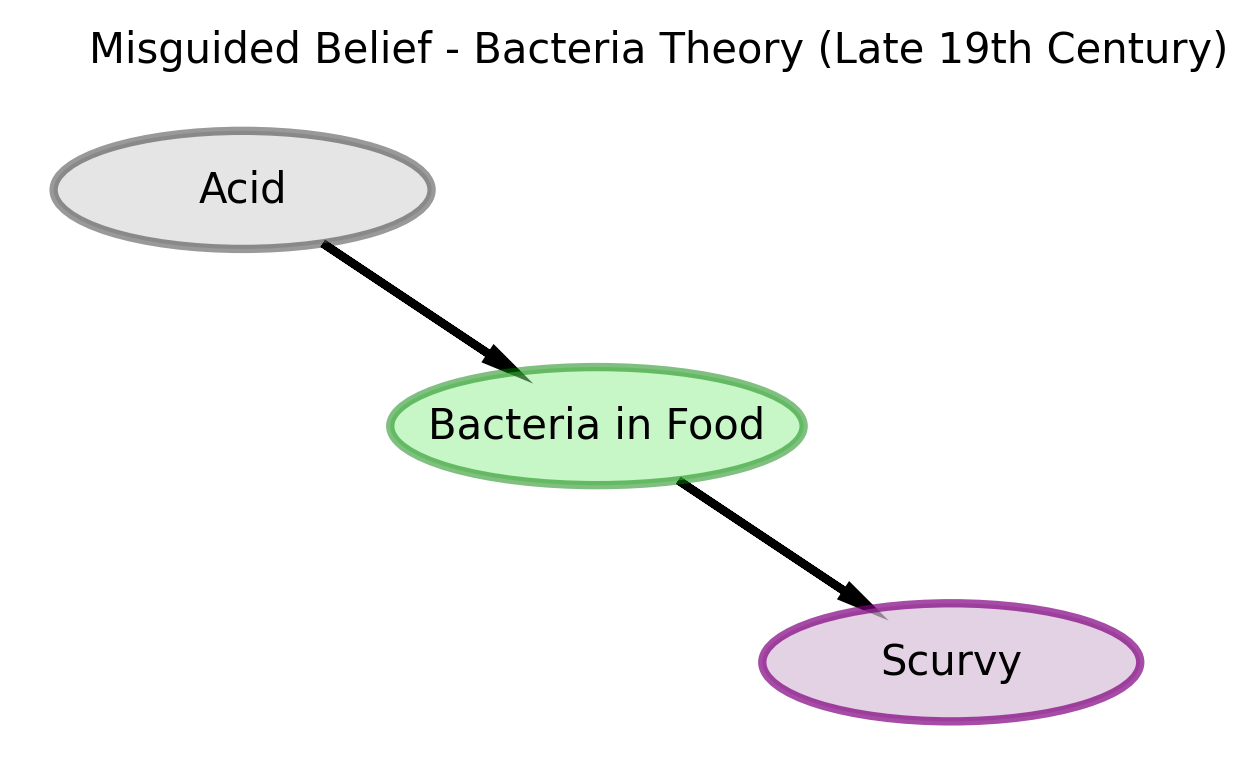
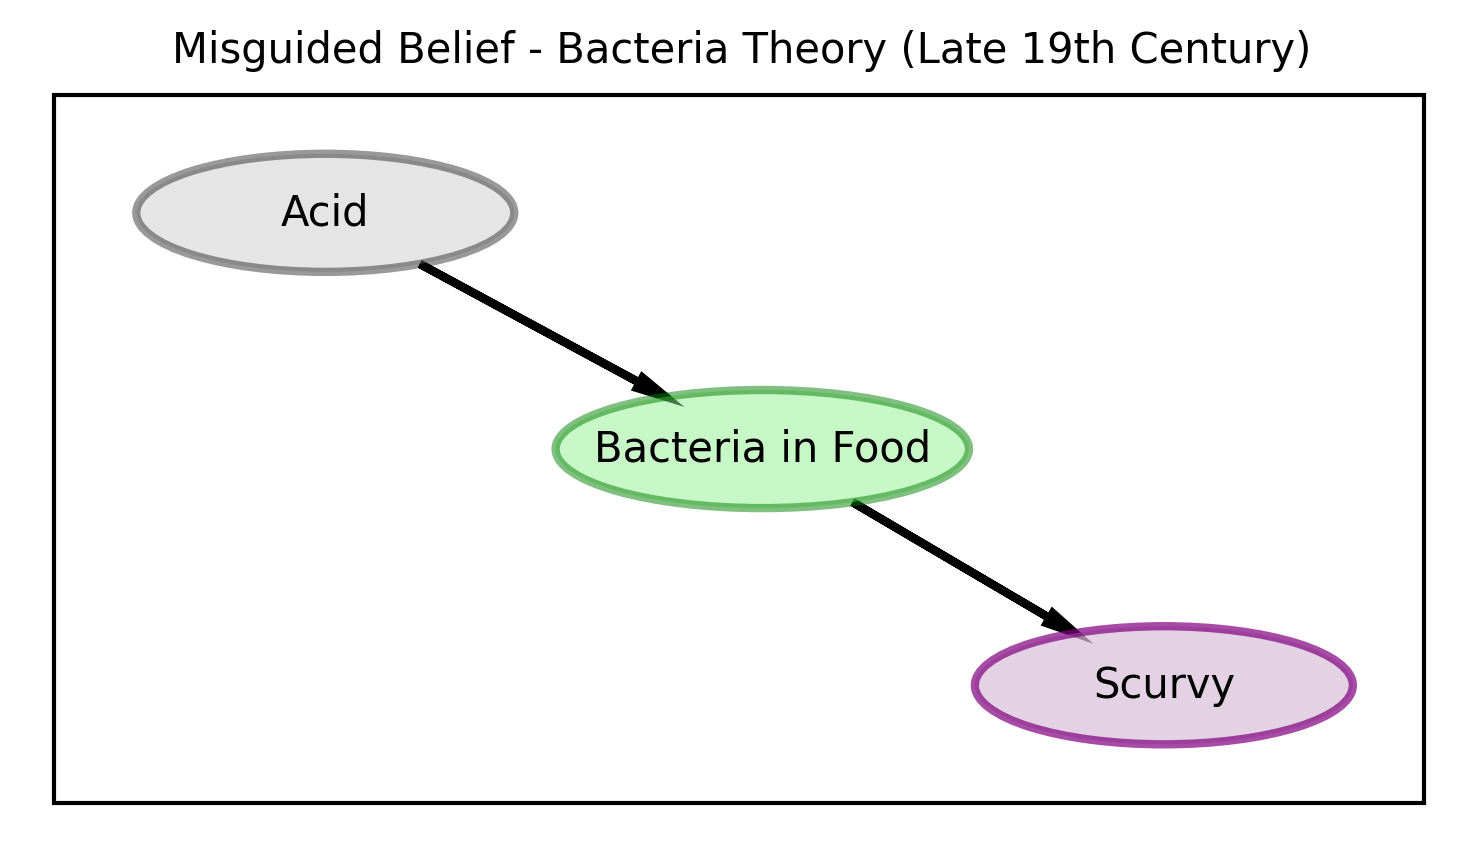
Added DAG plots

Changed region(s): [[0.031, 0.031, 0.961, 0.96], [0.961, 0.1239, 0.9921, 0.929], [0.62, 0.7123, 0.651, 0.7432]]

diff --git a/index.html b/index.html
@@ -252,25 +252,27 @@ Ready to create beautiful DAGs!</code></pre>
 <span id="cb4-8"><a href="#cb4-8" aria-hidden="true" tabindex="-1"></a></span>
 <span id="cb4-9"><a href="#cb4-9" aria-hidden="true" tabindex="-1"></a>pgm <span class="op">=</span> daft.PGM()</span>
 <span id="cb4-10"><a href="#cb4-10" aria-hidden="true" tabindex="-1"></a></span>
-<span id="cb4-11"><a href="#cb4-11" aria-hidden="true" tabindex="-1"></a><span class="co"># Add a title to the DAG</span></span>
-<span id="cb4-12"><a href="#cb4-12" aria-hidden="true" tabindex="-1"></a>pgm.add_text(label<span class="op">=</span><span class="st">"Misguided Belief - Bacteria Theory (Late 19th Century)"</span>, x<span class="op">=-</span><span class="fl">0.65</span>, y<span class="op">=</span><span class="fl">2.5</span>, fontsize<span class="op">=</span><span class="dv">10</span>)</span>
-<span id="cb4-13"><a href="#cb4-13" aria-hidden="true" tabindex="-1"></a></span>
-<span id="cb4-14"><a href="#cb4-14" aria-hidden="true" tabindex="-1"></a>pgm.add_node(<span class="st">"acid"</span>, <span class="st">"Acid"</span>, <span class="dv">0</span>, <span class="dv">2</span>, aspect <span class="op">=</span> <span class="fl">3.2</span>, scale <span class="op">=</span> <span class="dv">1</span>, plot_params<span class="op">=</span>{<span class="st">"facecolor"</span>: <span class="st">"silver"</span>, <span class="st">"edgecolor"</span>: <span class="st">"black"</span>, <span class="st">"linewidth"</span>: <span class="dv">2</span>, <span class="st">'alpha'</span>: <span class="fl">0.4</span>})</span>
+<span id="cb4-11"><a href="#cb4-11" aria-hidden="true" tabindex="-1"></a>pgm.add_plate([<span class="op">-</span><span class="fl">1.5</span>, <span class="op">-</span><span class="fl">0.5</span>, <span class="fl">5.8</span>, <span class="dv">3</span>])</span>
+<span id="cb4-12"><a href="#cb4-12" aria-hidden="true" tabindex="-1"></a></span>
+<span id="cb4-13"><a href="#cb4-13" aria-hidden="true" tabindex="-1"></a><span class="co"># Add a title to the DAG</span></span>
+<span id="cb4-14"><a href="#cb4-14" aria-hidden="true" tabindex="-1"></a>pgm.add_text(label<span class="op">=</span><span class="st">"Misguided Belief - Bacteria Theory (Late 19th Century)"</span>, x<span class="op">=-</span><span class="dv">1</span>, y<span class="op">=</span><span class="fl">2.6</span>, fontsize<span class="op">=</span><span class="dv">10</span>)</span>
 <span id="cb4-15"><a href="#cb4-15" aria-hidden="true" tabindex="-1"></a></span>
-<span id="cb4-16"><a href="#cb4-16" aria-hidden="true" tabindex="-1"></a>pgm.add_node(<span class="st">"bif"</span>, <span class="st">"Bacteria in Food"</span>, <span class="fl">1.5</span>, <span class="dv">1</span>, aspect <span class="op">=</span> <span class="fl">3.5</span>, scale <span class="op">=</span> <span class="dv">1</span>, plot_params<span class="op">=</span>{<span class="st">"facecolor"</span>: <span class="st">"lightgreen"</span>, <span class="st">"edgecolor"</span>: <span class="st">"green"</span>, <span class="st">"linewidth"</span>: <span class="dv">2</span>, <span class="st">'alpha'</span>: <span class="fl">0.5</span>})</span>
+<span id="cb4-16"><a href="#cb4-16" aria-hidden="true" tabindex="-1"></a>pgm.add_node(<span class="st">"acid"</span>, <span class="st">"Acid"</span>, <span class="op">-</span><span class="fl">0.35</span>, <span class="dv">2</span>, aspect <span class="op">=</span> <span class="fl">3.2</span>, scale <span class="op">=</span> <span class="dv">1</span>, plot_params<span class="op">=</span>{<span class="st">"facecolor"</span>: <span class="st">"silver"</span>, <span class="st">"edgecolor"</span>: <span class="st">"black"</span>, <span class="st">"linewidth"</span>: <span class="dv">2</span>, <span class="st">'alpha'</span>: <span class="fl">0.4</span>})</span>
 <span id="cb4-17"><a href="#cb4-17" aria-hidden="true" tabindex="-1"></a></span>
-<span id="cb4-18"><a href="#cb4-18" aria-hidden="true" tabindex="-1"></a>pgm.add_node(<span class="st">"scurvy"</span>, <span class="st">"Scurvy"</span>, <span class="dv">3</span>, <span class="dv">0</span>, aspect <span class="op">=</span> <span class="fl">3.2</span>, scale <span class="op">=</span> <span class="dv">1</span>, plot_params<span class="op">=</span>{<span class="st">"facecolor"</span>: <span class="st">"thistle"</span>, <span class="st">"edgecolor"</span>: <span class="st">"purple"</span>, <span class="st">"linewidth"</span>: <span class="dv">2</span>, <span class="st">'alpha'</span>: <span class="fl">0.7</span>})</span>
+<span id="cb4-18"><a href="#cb4-18" aria-hidden="true" tabindex="-1"></a>pgm.add_node(<span class="st">"bif"</span>, <span class="st">"Bacteria in Food"</span>, <span class="fl">1.5</span>, <span class="dv">1</span>, aspect <span class="op">=</span> <span class="fl">3.5</span>, scale <span class="op">=</span> <span class="dv">1</span>, plot_params<span class="op">=</span>{<span class="st">"facecolor"</span>: <span class="st">"lightgreen"</span>, <span class="st">"edgecolor"</span>: <span class="st">"green"</span>, <span class="st">"linewidth"</span>: <span class="dv">2</span>, <span class="st">'alpha'</span>: <span class="fl">0.5</span>})</span>
 <span id="cb4-19"><a href="#cb4-19" aria-hidden="true" tabindex="-1"></a></span>
-<span id="cb4-20"><a href="#cb4-20" aria-hidden="true" tabindex="-1"></a>pgm.add_edge(<span class="st">"acid"</span>, <span class="st">"bif"</span>, plot_params<span class="op">=</span>{<span class="st">"linewidth"</span>: <span class="dv">2</span>, <span class="st">"color"</span>: <span class="st">"gray"</span>})</span>
-<span id="cb4-21"><a href="#cb4-21" aria-hidden="true" tabindex="-1"></a>pgm.add_edge(<span class="st">"bif"</span>, <span class="st">"scurvy"</span>, plot_params<span class="op">=</span>{<span class="st">"linewidth"</span>: <span class="dv">2</span>, <span class="st">"color"</span>: <span class="st">"gray"</span>})</span>
-<span id="cb4-22"><a href="#cb4-22" aria-hidden="true" tabindex="-1"></a></span>
-<span id="cb4-23"><a href="#cb4-23" aria-hidden="true" tabindex="-1"></a>pgm.render()</span>
+<span id="cb4-20"><a href="#cb4-20" aria-hidden="true" tabindex="-1"></a>pgm.add_node(<span class="st">"scurvy"</span>, <span class="st">"Scurvy"</span>, <span class="fl">3.2</span>, <span class="dv">0</span>, aspect <span class="op">=</span> <span class="fl">3.2</span>, scale <span class="op">=</span> <span class="dv">1</span>, plot_params<span class="op">=</span>{<span class="st">"facecolor"</span>: <span class="st">"thistle"</span>, <span class="st">"edgecolor"</span>: <span class="st">"purple"</span>, <span class="st">"linewidth"</span>: <span class="dv">2</span>, <span class="st">'alpha'</span>: <span class="fl">0.7</span>})</span>
+<span id="cb4-21"><a href="#cb4-21" aria-hidden="true" tabindex="-1"></a></span>
+<span id="cb4-22"><a href="#cb4-22" aria-hidden="true" tabindex="-1"></a>pgm.add_edge(<span class="st">"acid"</span>, <span class="st">"bif"</span>, plot_params<span class="op">=</span>{<span class="st">"linewidth"</span>: <span class="dv">2</span>, <span class="st">"color"</span>: <span class="st">"gray"</span>})</span>
+<span id="cb4-23"><a href="#cb4-23" aria-hidden="true" tabindex="-1"></a>pgm.add_edge(<span class="st">"bif"</span>, <span class="st">"scurvy"</span>, plot_params<span class="op">=</span>{<span class="st">"linewidth"</span>: <span class="dv">2</span>, <span class="st">"color"</span>: <span class="st">"gray"</span>})</span>
 <span id="cb4-24"><a href="#cb4-24" aria-hidden="true" tabindex="-1"></a></span>
-<span id="cb4-25"><a href="#cb4-25" aria-hidden="true" tabindex="-1"></a>plt.show()</span></code></pre></div><button title="Copy to Clipboard" class="code-copy-button"><i class="bi"></i></button></div>
+<span id="cb4-25"><a href="#cb4-25" aria-hidden="true" tabindex="-1"></a>pgm.render()</span>
+<span id="cb4-26"><a href="#cb4-26" aria-hidden="true" tabindex="-1"></a></span>
+<span id="cb4-27"><a href="#cb4-27" aria-hidden="true" tabindex="-1"></a>plt.show()</span></code></pre></div><button title="Copy to Clipboard" class="code-copy-button"><i class="bi"></i></button></div>
 <div class="cell-output cell-output-display">
 <div>
 <figure class="figure">
-<p><img src="index_files/figure-html/dag-2-misguided-output-1.png" id="dag-2-misguided" width="629" height="387" class="figure-img"></p>
+<p><img src="index_files/figure-html/dag-2-misguided-output-1.png" id="dag-2-misguided" width="738" height="428" class="figure-img"></p>
 </figure>
 </div>
 </div>
@@ -290,27 +292,29 @@ Ready to create beautiful DAGs!</code></pre>
 <span id="cb5-6"><a href="#cb5-6" aria-hidden="true" tabindex="-1"></a></span>
 <span id="cb5-7"><a href="#cb5-7" aria-hidden="true" tabindex="-1"></a><span class="im">import</span> daft</span>
 <span id="cb5-8"><a href="#cb5-8" aria-hidden="true" tabindex="-1"></a></span>
-<span id="cb5-9"><a href="#cb5-9" aria-hidden="true" tabindex="-1"></a>pgm <span class="op">=</span> daft.PGM()</span>
+<span id="cb5-9"><a href="#cb5-9" aria-hidden="true" tabindex="-1"></a>pgm <span class="op">=</span> daft.PGM(dpi<span class="op">=</span><span class="dv">150</span>, alternate_style<span class="op">=</span><span class="st">"outer"</span>, observed_style<span class="op">=</span><span class="st">"inner"</span>)</span>
 <span id="cb5-10"><a href="#cb5-10" aria-hidden="true" tabindex="-1"></a></span>
-<span id="cb5-11"><a href="#cb5-11" aria-hidden="true" tabindex="-1"></a><span class="co"># Add a title to the DAG</span></span>
-<span id="cb5-12"><a href="#cb5-12" aria-hidden="true" tabindex="-1"></a>pgm.add_text(label<span class="op">=</span><span class="st">"Simplified Modern Understanding (1930s onwards)"</span>, x<span class="op">=-</span><span class="fl">0.3</span>, y<span class="op">=</span><span class="fl">2.5</span>, fontsize<span class="op">=</span><span class="dv">10</span>)</span>
-<span id="cb5-13"><a href="#cb5-13" aria-hidden="true" tabindex="-1"></a></span>
-<span id="cb5-14"><a href="#cb5-14" aria-hidden="true" tabindex="-1"></a>pgm.add_node(<span class="st">"vitc"</span>, <span class="st">"Vitamin C"</span>, <span class="fl">0.5</span>, <span class="dv">2</span>, aspect <span class="op">=</span> <span class="fl">3.4</span>, scale <span class="op">=</span> <span class="dv">1</span>, plot_params<span class="op">=</span>{<span class="st">"facecolor"</span>: <span class="st">"lightblue"</span>, <span class="st">"edgecolor"</span>: <span class="st">"navy"</span>, <span class="st">"linewidth"</span>: <span class="dv">2</span>, <span class="st">'alpha'</span>: <span class="fl">0.6</span>})</span>
+<span id="cb5-11"><a href="#cb5-11" aria-hidden="true" tabindex="-1"></a>pgm.add_plate([<span class="op">-</span><span class="fl">1.5</span>, <span class="op">-</span><span class="fl">0.6</span>, <span class="fl">5.8</span>, <span class="dv">3</span>])</span>
+<span id="cb5-12"><a href="#cb5-12" aria-hidden="true" tabindex="-1"></a></span>
+<span id="cb5-13"><a href="#cb5-13" aria-hidden="true" tabindex="-1"></a><span class="co"># Add a title to the DAG</span></span>
+<span id="cb5-14"><a href="#cb5-14" aria-hidden="true" tabindex="-1"></a>pgm.add_text(label<span class="op">=</span><span class="st">"Simplified Modern Understanding (1930s onwards)"</span>, x<span class="op">=-</span><span class="fl">0.9</span>, y<span class="op">=</span><span class="fl">2.5</span>, fontsize<span class="op">=</span><span class="dv">10</span>)</span>
 <span id="cb5-15"><a href="#cb5-15" aria-hidden="true" tabindex="-1"></a></span>
-<span id="cb5-16"><a href="#cb5-16" aria-hidden="true" tabindex="-1"></a>pgm.add_node(<span class="st">"colSyn"</span>, <span class="st">"Collagen Synthesis"</span>, <span class="dv">2</span>, <span class="dv">1</span>, aspect <span class="op">=</span> <span class="fl">3.8</span>, scale <span class="op">=</span> <span class="dv">1</span>, plot_params<span class="op">=</span>{<span class="st">"facecolor"</span>: <span class="st">"orange"</span>, <span class="st">"edgecolor"</span>: <span class="st">"brown"</span>, <span class="st">"linewidth"</span>: <span class="dv">2</span>, <span class="st">'alpha'</span>: <span class="fl">0.6</span>})</span>
+<span id="cb5-16"><a href="#cb5-16" aria-hidden="true" tabindex="-1"></a>pgm.add_node(<span class="st">"vitc"</span>, <span class="st">"Vitamin C"</span>, <span class="op">-</span><span class="fl">0.3</span>, <span class="dv">2</span>, aspect <span class="op">=</span> <span class="fl">3.4</span>, scale <span class="op">=</span> <span class="dv">1</span>, plot_params<span class="op">=</span>{<span class="st">"facecolor"</span>: <span class="st">"lightblue"</span>, <span class="st">"edgecolor"</span>: <span class="st">"navy"</span>, <span class="st">"linewidth"</span>: <span class="dv">2</span>, <span class="st">'alpha'</span>: <span class="fl">0.6</span>})</span>
 <span id="cb5-17"><a href="#cb5-17" aria-hidden="true" tabindex="-1"></a></span>
-<span id="cb5-18"><a href="#cb5-18" aria-hidden="true" tabindex="-1"></a>pgm.add_node(<span class="st">"scurvy"</span>, <span class="st">"Scurvy"</span>, <span class="fl">3.5</span>, <span class="dv">0</span>, aspect <span class="op">=</span> <span class="fl">3.4</span>, scale <span class="op">=</span> <span class="dv">1</span>, plot_params<span class="op">=</span>{<span class="st">"facecolor"</span>: <span class="st">"thistle"</span>, <span class="st">"edgecolor"</span>: <span class="st">"purple"</span>, <span class="st">"linewidth"</span>: <span class="dv">2</span>, <span class="st">'alpha'</span>: <span class="fl">0.7</span>})</span>
+<span id="cb5-18"><a href="#cb5-18" aria-hidden="true" tabindex="-1"></a>pgm.add_node(<span class="st">"colSyn"</span>, <span class="st">"Collagen Synthesis"</span>, <span class="fl">1.5</span>, <span class="dv">1</span>, aspect <span class="op">=</span> <span class="fl">3.8</span>, scale <span class="op">=</span> <span class="dv">1</span>, plot_params<span class="op">=</span>{<span class="st">"facecolor"</span>: <span class="st">"orange"</span>, <span class="st">"edgecolor"</span>: <span class="st">"brown"</span>, <span class="st">"linewidth"</span>: <span class="dv">2</span>, <span class="st">'alpha'</span>: <span class="fl">0.6</span>})</span>
 <span id="cb5-19"><a href="#cb5-19" aria-hidden="true" tabindex="-1"></a></span>
-<span id="cb5-20"><a href="#cb5-20" aria-hidden="true" tabindex="-1"></a>pgm.add_edge(<span class="st">"vitc"</span>, <span class="st">"colSyn"</span>)</span>
-<span id="cb5-21"><a href="#cb5-21" aria-hidden="true" tabindex="-1"></a>pgm.add_edge(<span class="st">"colSyn"</span>, <span class="st">"scurvy"</span>)</span>
-<span id="cb5-22"><a href="#cb5-22" aria-hidden="true" tabindex="-1"></a></span>
-<span id="cb5-23"><a href="#cb5-23" aria-hidden="true" tabindex="-1"></a>pgm.render()</span>
+<span id="cb5-20"><a href="#cb5-20" aria-hidden="true" tabindex="-1"></a>pgm.add_node(<span class="st">"scurvy"</span>, <span class="st">"Scurvy"</span>, <span class="fl">3.2</span>, <span class="dv">0</span>, aspect <span class="op">=</span> <span class="fl">3.4</span>, scale <span class="op">=</span> <span class="dv">1</span>, plot_params<span class="op">=</span>{<span class="st">"facecolor"</span>: <span class="st">"thistle"</span>, <span class="st">"edgecolor"</span>: <span class="st">"purple"</span>, <span class="st">"linewidth"</span>: <span class="dv">2</span>, <span class="st">'alpha'</span>: <span class="fl">0.7</span>})</span>
+<span id="cb5-21"><a href="#cb5-21" aria-hidden="true" tabindex="-1"></a></span>
+<span id="cb5-22"><a href="#cb5-22" aria-hidden="true" tabindex="-1"></a>pgm.add_edge(<span class="st">"vitc"</span>, <span class="st">"colSyn"</span>)</span>
+<span id="cb5-23"><a href="#cb5-23" aria-hidden="true" tabindex="-1"></a>pgm.add_edge(<span class="st">"colSyn"</span>, <span class="st">"scurvy"</span>)</span>
 <span id="cb5-24"><a href="#cb5-24" aria-hidden="true" tabindex="-1"></a></span>
-<span id="cb5-25"><a href="#cb5-25" aria-hidden="true" tabindex="-1"></a>plt.show()</span></code></pre></div><button title="Copy to Clipboard" class="code-copy-button"><i class="bi"></i></button></div>
+<span id="cb5-25"><a href="#cb5-25" aria-hidden="true" tabindex="-1"></a>pgm.render()</span>
+<span id="cb5-26"><a href="#cb5-26" aria-hidden="true" tabindex="-1"></a></span>
+<span id="cb5-27"><a href="#cb5-27" aria-hidden="true" tabindex="-1"></a>plt.show()</span></code></pre></div><button title="Copy to Clipboard" class="code-copy-button"><i class="bi"></i></button></div>
 <div class="cell-output cell-output-display">
 <div>
 <figure class="figure">
-<p><img src="index_files/figure-html/dag-3-1928-output-1.png" id="dag-3-1928" width="608" height="387" class="figure-img"></p>
+<p><img src="index_files/figure-html/dag-3-1928-output-1.png" id="dag-3-1928" width="738" height="428" class="figure-img"></p>
 </figure>
 </div>
 </div>
@@ -392,6 +396,84 @@ Figure&nbsp;1: Example: Professional DAFT Node Styling
 </div>
 </div>
 </div>
+</section>
+<section id="example-observed-and-alternate-node-styles" class="level3">
+<h3 class="anchored" data-anchor-id="example-observed-and-alternate-node-styles">Example: Observed and Alternate Node Styles</h3>
+<p>Here’s an example showing the different <code>observed_style</code> and <code>alternate_style</code> options:</p>
+<div class="cell" data-execution_count="6">
+<div class="code-copy-outer-scaffold"><div class="sourceCode cell-code" id="cb7"><pre class="sourceCode python code-with-copy"><code class="sourceCode python"><span id="cb7-1"><a href="#cb7-1" aria-hidden="true" tabindex="-1"></a><span class="im">import</span> daft</span>
+<span id="cb7-2"><a href="#cb7-2" aria-hidden="true" tabindex="-1"></a><span class="im">import</span> matplotlib.pyplot <span class="im">as</span> plt</span>
+<span id="cb7-3"><a href="#cb7-3" aria-hidden="true" tabindex="-1"></a></span>
+<span id="cb7-4"><a href="#cb7-4" aria-hidden="true" tabindex="-1"></a><span class="co"># Row 1: Shaded style (default)</span></span>
+<span id="cb7-5"><a href="#cb7-5" aria-hidden="true" tabindex="-1"></a>pgm1 <span class="op">=</span> daft.PGM(observed_style<span class="op">=</span><span class="st">"shaded"</span>, alternate_style<span class="op">=</span><span class="st">"shaded"</span>)</span>
+<span id="cb7-6"><a href="#cb7-6" aria-hidden="true" tabindex="-1"></a>pgm1.add_node(<span class="st">"normal1"</span>, <span class="st">"Normal"</span>, <span class="dv">0</span>, <span class="dv">2</span>, plot_params<span class="op">=</span>{<span class="st">"facecolor"</span>: <span class="st">"lightblue"</span>})</span>
+<span id="cb7-7"><a href="#cb7-7" aria-hidden="true" tabindex="-1"></a>pgm1.add_node(<span class="st">"observed1"</span>, <span class="st">"Observed"</span>, <span class="dv">2</span>, <span class="dv">2</span>, observed<span class="op">=</span><span class="va">True</span>, plot_params<span class="op">=</span>{<span class="st">"facecolor"</span>: <span class="st">"lightgreen"</span>})</span>
+<span id="cb7-8"><a href="#cb7-8" aria-hidden="true" tabindex="-1"></a>pgm1.add_node(<span class="st">"alt1"</span>, <span class="st">"Alternate"</span>, <span class="dv">4</span>, <span class="dv">2</span>, alternate<span class="op">=</span><span class="va">True</span>, plot_params<span class="op">=</span>{<span class="st">"facecolor"</span>: <span class="st">"yellow"</span>})</span>
+<span id="cb7-9"><a href="#cb7-9" aria-hidden="true" tabindex="-1"></a></span>
+<span id="cb7-10"><a href="#cb7-10" aria-hidden="true" tabindex="-1"></a><span class="co"># Row 2: Inner style</span></span>
+<span id="cb7-11"><a href="#cb7-11" aria-hidden="true" tabindex="-1"></a>pgm2 <span class="op">=</span> daft.PGM(observed_style<span class="op">=</span><span class="st">"inner"</span>, alternate_style<span class="op">=</span><span class="st">"inner"</span>)</span>
+<span id="cb7-12"><a href="#cb7-12" aria-hidden="true" tabindex="-1"></a>pgm2.add_node(<span class="st">"normal2"</span>, <span class="st">"Normal"</span>, <span class="dv">0</span>, <span class="dv">0</span>, plot_params<span class="op">=</span>{<span class="st">"facecolor"</span>: <span class="st">"lightblue"</span>})</span>
+<span id="cb7-13"><a href="#cb7-13" aria-hidden="true" tabindex="-1"></a>pgm2.add_node(<span class="st">"observed2"</span>, <span class="st">"Observed"</span>, <span class="dv">2</span>, <span class="dv">0</span>, observed<span class="op">=</span><span class="va">True</span>, plot_params<span class="op">=</span>{<span class="st">"facecolor"</span>: <span class="st">"lightgreen"</span>})</span>
+<span id="cb7-14"><a href="#cb7-14" aria-hidden="true" tabindex="-1"></a>pgm2.add_node(<span class="st">"alt2"</span>, <span class="st">"Alternate"</span>, <span class="dv">4</span>, <span class="dv">0</span>, alternate<span class="op">=</span><span class="va">True</span>, plot_params<span class="op">=</span>{<span class="st">"facecolor"</span>: <span class="st">"yellow"</span>})</span>
+<span id="cb7-15"><a href="#cb7-15" aria-hidden="true" tabindex="-1"></a></span>
+<span id="cb7-16"><a href="#cb7-16" aria-hidden="true" tabindex="-1"></a><span class="co"># Row 3: Outer style</span></span>
+<span id="cb7-17"><a href="#cb7-17" aria-hidden="true" tabindex="-1"></a>pgm3 <span class="op">=</span> daft.PGM(observed_style<span class="op">=</span><span class="st">"outer"</span>, alternate_style<span class="op">=</span><span class="st">"outer"</span>)</span>
+<span id="cb7-18"><a href="#cb7-18" aria-hidden="true" tabindex="-1"></a>pgm3.add_node(<span class="st">"normal3"</span>, <span class="st">"Normal"</span>, <span class="dv">0</span>, <span class="op">-</span><span class="dv">2</span>, plot_params<span class="op">=</span>{<span class="st">"facecolor"</span>: <span class="st">"lightblue"</span>})</span>
+<span id="cb7-19"><a href="#cb7-19" aria-hidden="true" tabindex="-1"></a>pgm3.add_node(<span class="st">"observed3"</span>, <span class="st">"Observed"</span>, <span class="dv">2</span>, <span class="op">-</span><span class="dv">2</span>, observed<span class="op">=</span><span class="va">True</span>, plot_params<span class="op">=</span>{<span class="st">"facecolor"</span>: <span class="st">"lightgreen"</span>})</span>
+<span id="cb7-20"><a href="#cb7-20" aria-hidden="true" tabindex="-1"></a>pgm3.add_node(<span class="st">"alt3"</span>, <span class="st">"Alternate"</span>, <span class="dv">4</span>, <span class="op">-</span><span class="dv">2</span>, alternate<span class="op">=</span><span class="va">True</span>, plot_params<span class="op">=</span>{<span class="st">"facecolor"</span>: <span class="st">"yellow"</span>})</span>
+<span id="cb7-21"><a href="#cb7-21" aria-hidden="true" tabindex="-1"></a></span>
+<span id="cb7-22"><a href="#cb7-22" aria-hidden="true" tabindex="-1"></a><span class="co"># Render all three</span></span>
+<span id="cb7-23"><a href="#cb7-23" aria-hidden="true" tabindex="-1"></a>pgm1.render()</span>
+<span id="cb7-24"><a href="#cb7-24" aria-hidden="true" tabindex="-1"></a>pgm2.render()</span>
+<span id="cb7-25"><a href="#cb7-25" aria-hidden="true" tabindex="-1"></a>pgm3.render()</span>
+<span id="cb7-26"><a href="#cb7-26" aria-hidden="true" tabindex="-1"></a>plt.show()</span></code></pre></div><button title="Copy to Clipboard" class="code-copy-button"><i class="bi"></i></button></div>
+<div id="fig-node-styles" class="cell quarto-float quarto-figure quarto-figure-center anchored" data-execution_count="6">
+<figure class="quarto-float quarto-float-fig figure">
+<div aria-describedby="fig-node-styles-caption-0ceaefa1-69ba-4598-a22c-09a6ac19f8ca">
+<div class="cell-output cell-output-display">
+<div id="fig-node-styles-1" class="quarto-float quarto-figure quarto-figure-center anchored">
+<figure class="quarto-float quarto-subfloat-fig figure">
+<div aria-describedby="fig-node-styles-1-caption-0ceaefa1-69ba-4598-a22c-09a6ac19f8ca">
+<img src="index_files/figure-html/fig-node-styles-output-1.png" data-ref-parent="fig-node-styles" width="591" height="112" class="figure-img">
+</div>
+<figcaption class="quarto-float-caption-bottom quarto-subfloat-caption quarto-subfloat-fig" id="fig-node-styles-1-caption-0ceaefa1-69ba-4598-a22c-09a6ac19f8ca">
+(a) Example: Observed and Alternate Node Styles
+</figcaption>
+</figure>
+</div>
+</div>
+<div class="cell-output cell-output-display">
+<div id="fig-node-styles-2" class="quarto-float quarto-figure quarto-figure-center anchored" height="112" width="591">
+<figure class="quarto-float quarto-subfloat-fig figure">
+<div aria-describedby="fig-node-styles-2-caption-0ceaefa1-69ba-4598-a22c-09a6ac19f8ca">
+<img src="index_files/figure-html/fig-node-styles-output-2.png" id="fig-node-styles-2" data-ref-parent="fig-node-styles" width="591" height="112" class="figure-img">
+</div>
+<figcaption class="quarto-float-caption-bottom quarto-subfloat-caption quarto-subfloat-fig" id="fig-node-styles-2-caption-0ceaefa1-69ba-4598-a22c-09a6ac19f8ca">
+(b)
+</figcaption>
+</figure>
+</div>
+</div>
+<div class="cell-output cell-output-display">
+<div id="fig-node-styles-3" class="quarto-float quarto-figure quarto-figure-center anchored" height="319" width="591">
+<figure class="quarto-float quarto-subfloat-fig figure">
+<div aria-describedby="fig-node-styles-3-caption-0ceaefa1-69ba-4598-a22c-09a6ac19f8ca">
+<img src="index_files/figure-html/fig-node-styles-output-3.png" id="fig-node-styles-3" data-ref-parent="fig-node-styles" width="591" height="319" class="figure-img">
+</div>
+<figcaption class="quarto-float-caption-bottom quarto-subfloat-caption quarto-subfloat-fig" id="fig-node-styles-3-caption-0ceaefa1-69ba-4598-a22c-09a6ac19f8ca">
+(c)
+</figcaption>
+</figure>
+</div>
+</div>
+</div>
+<figcaption class="quarto-float-caption-bottom quarto-float-caption quarto-float-fig quarto-uncaptioned" id="fig-node-styles-caption-0ceaefa1-69ba-4598-a22c-09a6ac19f8ca">
+Figure&nbsp;2
+</figcaption>
+</figure>
+</div>
+</div>
+<p><strong>Explanation:</strong> - <strong>Normal nodes</strong>: Standard single-circle nodes - <strong>Observed nodes</strong> (<code>observed=True</code>): Styled according to <code>observed_style</code> parameter - <code>"shaded"</code>: Filled/darker appearance - <code>"inner"</code>: Double circle with inner ring - <code>"outer"</code>: Double circle with outer ring - <strong>Alternate nodes</strong> (<code>alternate=True</code>): Styled according to <code>alternate_style</code> parameter (same options as observed)</p>
 <p><strong>Key Styling Parameters:</strong></p>
 <ul>
 <li><code>facecolor</code>: Background color of the node</li>
